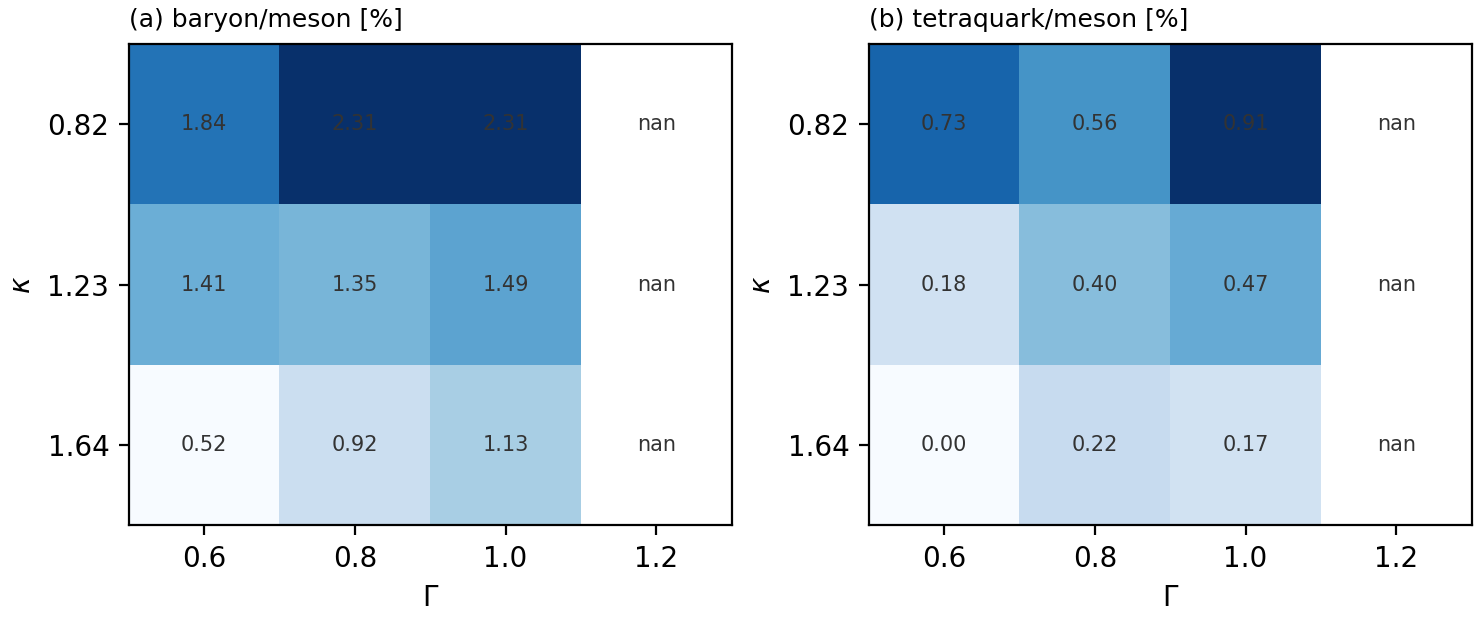
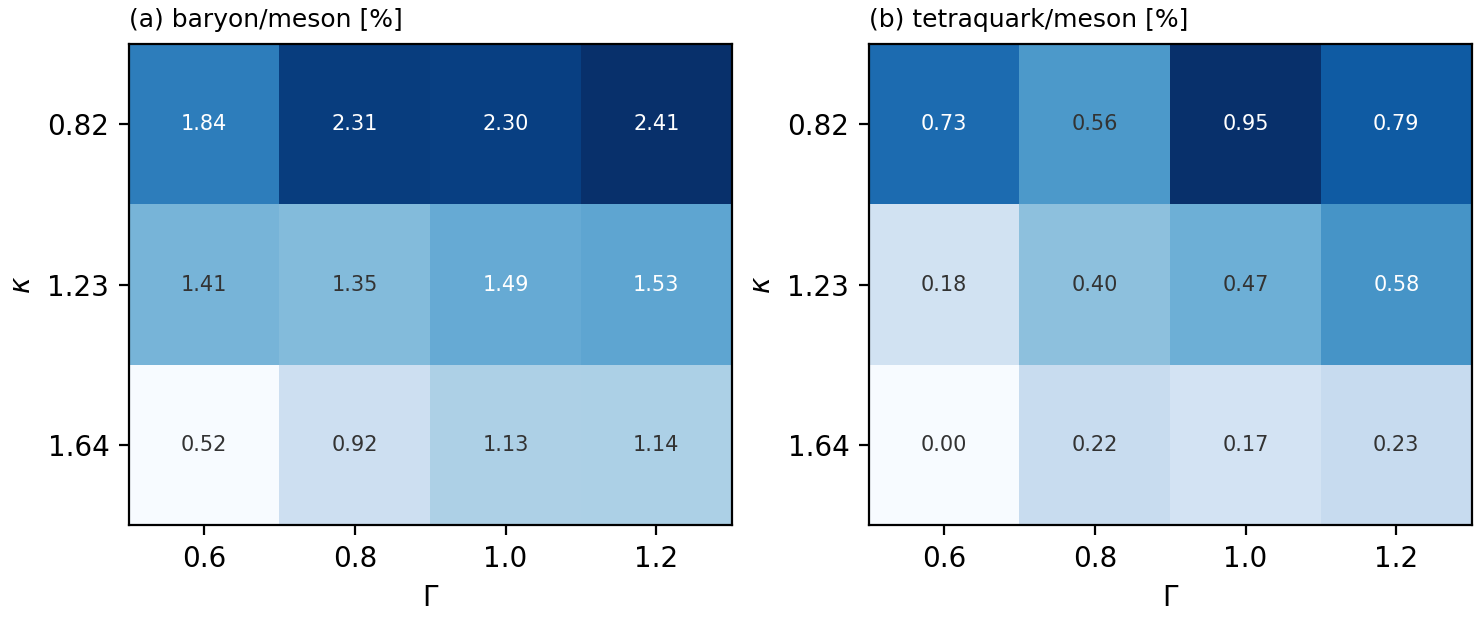
Shots-to-ratios extraction framework + complete (Gamma,kappa) heatmap
- s09 'From shots to ratios': the adaptive measurement chain as a
  well-defined quantum instrument (ordering-insensitive up to
  e^{-m_pi d}), ratio-of-means estimator, misassignment unfolding
  (M = 1 + measured corrections), and the statement of what R is a
  functional of (preparation parameters; continuum/IV limits free of
  anomalous dimensions) - the direct answer to 'how do you extract a
  meaningful ratio from a quantum simulation'
- App E: composition-of-measurement-chain subsection (commutator
  bounds, classical conditioning, convergence of the composite
  instrument)
- Fig 11: complete 12-point heatmap (lenore refill merged): B/M
  0.5-2.4%, T/M up to ~1%, dq-first 0.81-0.95 plane-wide

Claude-Session: https://claude.ai/code/session_01Q1aNy4k6uAz81qnbnS9jy4

diff --git a/paper/sections/s09_protocols.tex b/paper/sections/s09_protocols.tex
@@ -5,8 +5,61 @@ Per shot: evolve to $t_f$; locate clusters (front end); certify singlets
 (Gauss); measure Tier-1 charges on all clusters; run Tier-2 QPE on
 clusters needing spectral identification; record (species, $P^\mu$).
 Across shots: species multiplicities, ratios, and Tier-3 pair spectra ---
-event-ensemble statistics exactly as in experiment; the measurement is
-single, late-time, and destructive, so back-action plays no role.
+event-ensemble statistics exactly as in experiment.
+
+\subsection{From shots to ratios}
+\label{sec:shots-to-ratios}
+
+The extraction of a \emph{number} $R_{ss'}$ deserves care, because the
+per-shot protocol is an \emph{adaptive} measurement chain --- later
+measurements act on regions chosen from earlier outcomes --- rather
+than the expectation value of any local operator.  Four statements
+assemble the ratio:
+
+\emph{(i) The chain is a well-defined quantum instrument.}  Each shot
+implements a POVM whose outcome $\omega$ is the list
+$\{(s_i,P^\mu_i)\}$ of cluster labels and momenta.  Every primitive in
+the chain --- smeared energy density, boundary-flux Casimir, smeared
+charges, region-restricted QPE --- is quasi-local, and on cluster
+states any pair of primitives with separated or nested supports
+commutes up to boundary-supported terms of size $O(e^{-m_\pi d})$
+(Appendix~\ref{app:limits}).  The outcome law is therefore independent
+of measurement ordering, and back-action within a shot is controlled
+by the same exponential that controls every other systematic.  The
+region-finding step enters only as classical conditioning and needs no
+renormalization of its own.
+
+\emph{(ii) The estimator.}  With $N_s(\omega)=\sum_i
+\delta_{s_i s}$, the ratio is estimated as the ratio of shot-averaged
+means, $\hat R_{ss'} = \overline{N_s}/\overline{N_{s'}}$, with
+standard $O(1/n_{\rm shots})$ ratio-estimator bias and bootstrap
+errors --- statistics, not field theory.
+
+\emph{(iii) Unfolding.}  Labels err in enumerable ways: quantization
+tails ($e^{-m_\pi d}$), merged clusters (the flagged fraction of
+Sec.~\ref{sec:front-end}), and spectral-window collisions.  The
+measured count vector is $\langle \mathbf N\rangle_{\rm meas} =
+M\,\langle \mathbf N\rangle_{\rm true}$ with $M = \mathbb 1 +
+\delta M$, where every entry of $\delta M$ is itself measured (flagged
+fractions, window occupancies) or bounded (tails); ratios are quoted
+after inverting $M$ --- precisely the efficiency unfolding of an
+experimental analysis, with $\delta M \to 0$ in the
+plateau/continuum limits.
+
+\emph{(iv) What the ratio means.}  $R_{ss'}$ is not a vacuum constant
+of QCD: it is a functional of the specified preparation
+$(T, R_F, \mu_B, u^i)$ and of $t_f$ within its plateau --- exactly as
+experimental yields are functionals of collision energy and
+centrality.  Its field-theoretic content is that this functional has
+continuum and infinite-volume limits free of anomalous dimensions
+(Appendices~\ref{app:charge-quantization} and \ref{app:limits}),
+with all residual scheme dependence confined to stated, scannable
+window parameters.  Meaningful comparison is comparison at matched
+preparation: to the classical model of
+Secs.~\ref{sec:model}--\ref{sec:classical-results} run at the same
+$(T, n, H_0)$, to statistical hadronization at the same freeze-out,
+and ultimately between simulated and experimental systems of matched
+size and energy density.
 
 \todo{systematics table: $\ell_{\rm cl}$- and $d$-plateaus; flagged
 merged-cluster fraction; $t_f$-plateau residual slopes per species;

diff --git a/paper/sections/app_e_limits.tex b/paper/sections/app_e_limits.tex
@@ -36,6 +36,35 @@ definition.  For the flagship narrow exotics the windows are parametric:
 $c\tau[\chic]\approx165\fm$ and $c\tau[\Tcc]\approx4000\fm$ against
 $t_{\rm fo}\sim10$--$20\fm/c$.
 
+\subsection{Composition of the measurement chain}
+\label{app:composition}
+
+The per-shot protocol measures, in sequence: coarse energy density
+$\varepsilon_\ell$ (region finding), boundary-flux Casimirs (singlet
+certification), smeared charges $Q^{\ell_w}_{R,f}$, and QPE on $H_R$.
+These do not commute exactly, so the chain must be shown to define an
+ordering-insensitive outcome law.  Three observations suffice.
+(i)~All primitives are smeared, quasi-local operators; for any two
+acting on regions separated by (or nested with buffer) $d$, the
+commutator is supported on the buffer, and its matrix elements on
+cluster-in-region states are $O(e^{-m_\pi d})$ by the cluster
+condition.  (ii)~Within one region the sequence is compatible up to
+the same accuracy: $[Q^{\ell_w}_{R},H_R]$ is boundary-supported
+because the exactly conserved current's divergence telescopes to
+$\partial R$; the flux Casimir lives on $\partial R$ where the state
+is vacuum up to $\epsilon_d$.  (iii)~The adaptive step --- choosing
+$\{R_i\}$ from the $\varepsilon_\ell$ record --- is classical
+conditioning: the instrument is
+$\rho \mapsto \sum_{\omega_1} K_{\omega_2(\omega_1)}
+K_{\omega_1}\rho K^\dagger_{\omega_1} K^\dagger_{\omega_2(\omega_1)}$,
+and since each Kraus family is built from convergent, RG-safe
+primitives, the composite outcome distribution converges in the
+continuum limit whenever the primitives do.  Disturbance of later
+measurements by earlier ones is bounded by the commutators of (i) and
+(ii), i.e.\ enters the error budget at the same order as the
+quantization tails already present in
+Eq.~\eqref{eq:quantization}.
+
 \subsection{Fireball boundary transients (E1) and TPQ droplet (E2)}
 
 A temperature profile interpolating to zero over $\ell_T$ with

diff --git a/paper/sections/s04_classical_results.tex b/paper/sections/s04_classical_results.tex
@@ -8,8 +8,26 @@ $\alpha_s=0.6$, $H_0=0.05\,c/\fm$, and twelve injected $c\bar c$ pairs,
 meson-bound fractions are $13.1\%$, $12.9\%$, $13.0\%$ at $N=604$,
 $3000$, $10^4$, with composite rates scaling within $1\sigma$
 (Appendix~\ref{app:validation}, which also collects the full
-systematics table).  \todo{remaining production item: the
-$(\Gamma,\kappa)$ heatmap.}
+systematics table).
+
+\begin{figure*}[t]
+\includegraphics[width=0.85\textwidth]{figs/fig11_heatmap.pdf}
+\caption{Composite-to-meson ratios across the coupling--screening
+plane ($N=3000$, 16 events per cell).  Both ratios grow monotonically
+with $\Gamma$ and with decreasing $\kappa$ (longer-ranged
+attraction); $B/M$ spans $0.5$--$2.4\%$ and $T/M$ reaches $\sim1\%$
+at the strongest-coupling, weakest-screening corner.  The
+diquark-first fraction is $0.81$--$0.95$ over the entire plane.}
+\label{fig:heatmap}
+\end{figure*}
+
+Figure~\ref{fig:heatmap} maps the composite-to-meson ratios over the
+full coupling--screening plane: both rise monotonically toward strong
+coupling and weak screening, with $B/M$ sweeping $0.5$--$2.4\%$
+(bracketing the direction of the measured $p/\pi^+\approx5\%$) and
+$T/M$ reaching the percent level --- while the diquark-first fraction
+never leaves the $0.81$--$0.95$ band, making the amplification of the
+static estimate a plane-wide, not point-specific, conclusion.
 
 \subsection{Static validation and the correlated gas}
 